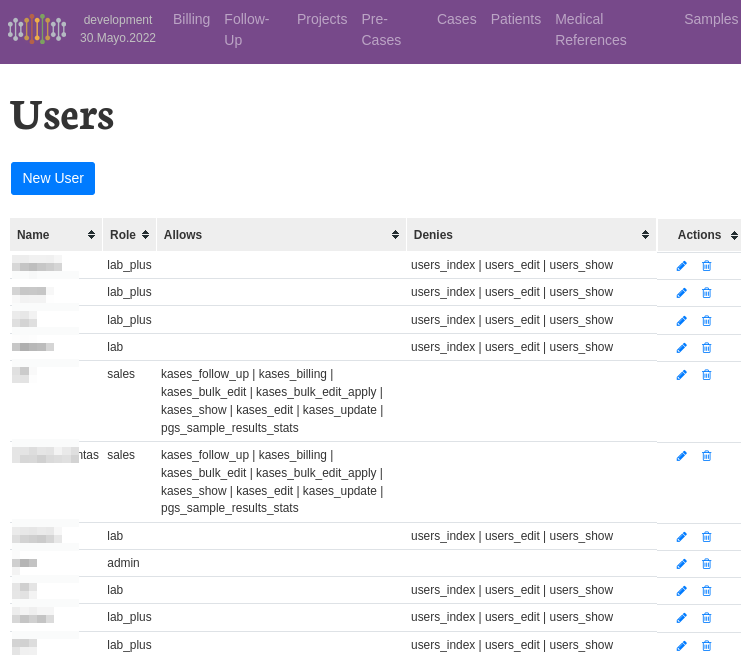
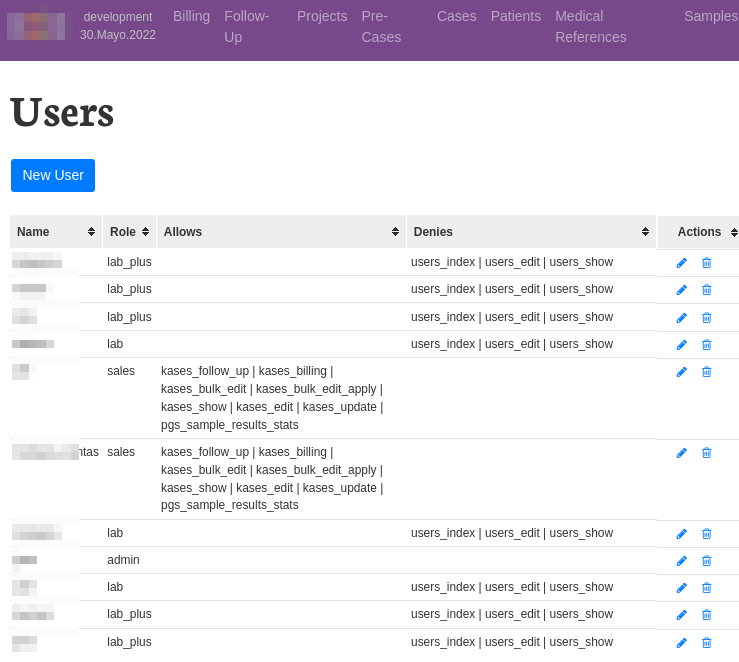
red warning text and missing blur

diff --git a/_site/pages/lab-app/index.html b/_site/pages/lab-app/index.html
@@ -86,9 +86,9 @@ and <strong>interactive edition of PDF reports</strong> to communicate the resul
 LIMS (Laboratory Information Management Software).</p>
 
 <p>IMPORTANT NOTE: All the patient, doctor and clinic names in the screenshots
-have been replaced with <strong>fake names</strong> from the Ruby gem
+have been <span class="warning-text">anonymised with fake names</span> from the Ruby gem
 <a href="https://github.com/faker-ruby/faker" target="_blank" rel="noopener noreferrer">Faker</a> for the purposes of this showcase.
-Sensitive data has also been blurred in the screenshots.</p>
+<span class="warning-text">Sensitive data has also been blurred</span> in the screenshots.</p>
 
 <h3 id="interactive-customization-of-pdf-reports">Interactive customization of PDF reports</h3>
 

diff --git a/_site/assets/css/styles.css b/_site/assets/css/styles.css
@@ -3,6 +3,9 @@
   .small-banner img {
     max-width: 300px; }
 
+.warning-text {
+  color: Crimson; }
+
 .life-gif {
   width: 50px;
   opacity: 0.5;

diff --git a/_sass/main.scss b/_sass/main.scss
@@ -4,6 +4,10 @@
   img { max-width: 300px; }
 }
 
+.warning-text {
+  color: Crimson;
+}
+
 .life-gif {
   width: 50px;
   opacity: 0.5;

diff --git a/pages/lab-app.md b/pages/lab-app.md
@@ -18,9 +18,9 @@ This _in house_ software has saved the laboratory thousands of dollars in
 LIMS (Laboratory Information Management Software).
 
 IMPORTANT NOTE: All the patient, doctor and clinic names in the screenshots
-have been replaced with **fake names** from the Ruby gem
+have been <span class="warning-text">anonymised with fake names</span> from the Ruby gem
 [Faker](https://github.com/faker-ruby/faker) for the purposes of this showcase.
-Sensitive data has also been blurred in the screenshots.
+<span class="warning-text">Sensitive data has also been blurred</span> in the screenshots.
 
 ### Interactive customization of PDF reports
 
